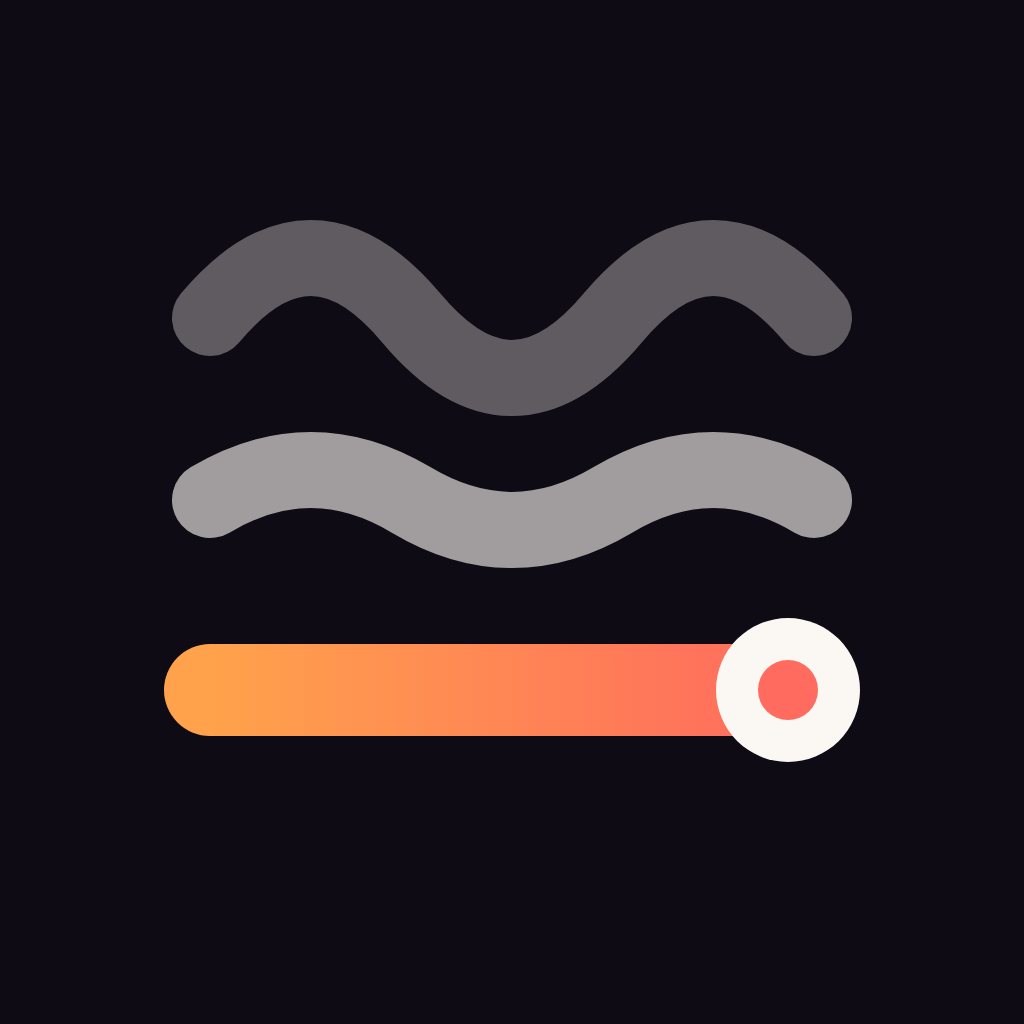
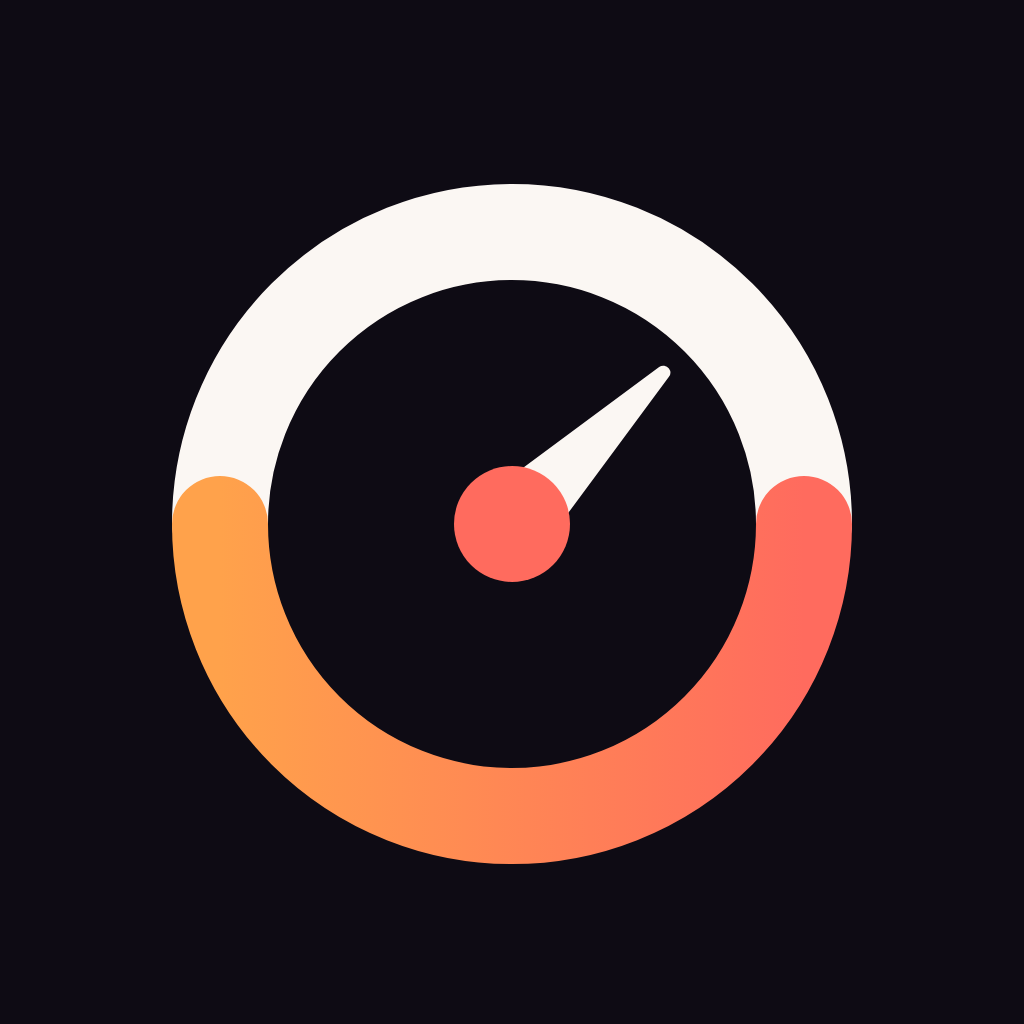
Brand: the dial becomes the Tidemark mark
A scale's dial seen from above: the upper half paper, the lower half filled
amber to coral, the needle resting steady on a coral hub. Redrawn as exact
geometry in make_logo.py and regenerated everywhere: app icons (light, dark,
tinted, Android adaptive and themed), splash, favicon, lockups, the in-app
TidemarkIcon, the website icon and the brand sheet.

Claude-Session: https://claude.ai/code/session_01NJzQ8Sbwud31aT5mXSmaWd

Changed region(s): [[0.1562, 0.1562, 0.8438, 0.8438]]

diff --git a/mobile/src/components/Logo.tsx b/mobile/src/components/Logo.tsx
@@ -4,12 +4,11 @@ import { C } from '../theme';
 // The tile is plum in both themes, so its marks stay paper-coloured (not the theme background, which is dark in dark mode)
 const PAPER = '#FBF7F3';
 
-// Same geometry as brand/tidemark-app-icon.svg (1024 grid, from brand/make_logo.py): the waves are daily weigh-ins,
-// they calm, and what's left is the trend, one flat line, with today marked where it lands.
-const WAVES: [string, number][] = [
-  ['M210 318 Q 310.7 198 411.3 318 T 612.7 318 T 814.0 318', 0.34],
-  ['M210 500 Q 310.7 440 411.3 500 T 612.7 500 T 814.0 500', 0.62],
-];
+// Same geometry as brand/tidemark-app-icon.svg (1024 grid, from brand/make_logo.py): a scale's dial seen from above,
+// the upper half paper, the lower half filled amber to coral for the progress made, and the needle resting steady.
+const UPPER = 'M220.0 524.0 A292 292 0 0 1 804.0 524.0';
+const LOWER = 'M804.0 524.0 A292 292 0 0 1 220.0 524.0';
+const NEEDLE = 'M489.4 501.4 L663.3 372.7 L534.6 546.6 Z';
 
 /** The Tidemark app icon as a rounded tile, for the lock screen and welcome screen. */
 export function TidemarkIcon({ size = 64 }: { size?: number }) {
@@ -17,15 +16,15 @@ export function TidemarkIcon({ size = 64 }: { size?: number }) {
     <Svg width={size} height={size} viewBox="0 0 1024 1024" accessibilityLabel="Tidemark">
       <Defs>
         <LinearGradient id="bg" x1="0" y1="0" x2="1" y2="1"><Stop offset="0" stopColor="#352657" /><Stop offset="0.55" stopColor={C.plum1} /><Stop offset="1" stopColor="#1E1533" /></LinearGradient>
-        <RadialGradient id="warm" cx="0.79" cy="0.69" r="0.5"><Stop offset="0" stopColor={C.coral} stopOpacity={0.28} /><Stop offset="1" stopColor={C.coral} stopOpacity={0} /></RadialGradient>
-        <LinearGradient id="trend" gradientUnits="userSpaceOnUse" x1="210" y1="690" x2="788" y2="690"><Stop offset="0" stopColor={C.amber} /><Stop offset="1" stopColor={C.coral} /></LinearGradient>
+        <RadialGradient id="warm" cx="0.5" cy="0.8" r="0.55"><Stop offset="0" stopColor={C.coral} stopOpacity={0.24} /><Stop offset="1" stopColor={C.coral} stopOpacity={0} /></RadialGradient>
+        <LinearGradient id="fill" gradientUnits="userSpaceOnUse" x1="220" y1="0" x2="804" y2="0"><Stop offset="0" stopColor={C.amber} /><Stop offset="1" stopColor={C.coral} /></LinearGradient>
       </Defs>
       <Rect width={1024} height={1024} rx={228} fill="url(#bg)" />
       <Rect width={1024} height={1024} rx={228} fill="url(#warm)" />
-      {WAVES.map(([d, o]) => <Path key={d} d={d} fill="none" stroke={PAPER} strokeOpacity={o} strokeWidth={76} strokeLinecap="round" />)}
-      <Path d="M210 690 H760" stroke="url(#trend)" strokeWidth={92} strokeLinecap="round" />
-      <Circle cx={788} cy={690} r={72} fill={PAPER} />
-      <Circle cx={788} cy={690} r={30} fill={C.coral} />
+      <Path d={UPPER} fill="none" stroke={PAPER} strokeWidth={96} strokeLinecap="round" />
+      <Path d={LOWER} fill="none" stroke="url(#fill)" strokeWidth={96} strokeLinecap="round" />
+      <Path d={NEEDLE} fill={PAPER} stroke={PAPER} strokeWidth={14} strokeLinejoin="round" />
+      <Circle cx={512} cy={524} r={58} fill={C.coral} />
     </Svg>
   );
 }

diff --git a/brand/make_logo.py b/brand/make_logo.py
@@ -1,8 +1,9 @@
 # Generates the Tidemark brand marks as SVG.
-# The mark (direction A, "calming waves"): daily weigh-ins are the waves; they calm, and what's left is the trend, one
-# flat line, with today marked where it lands. Read the trend, not the waves.
+# The mark (direction D, "the dial"): a scale's dial seen from above. The upper half of the ring is paper; the lower
+# half fills amber to coral, the progress you've made; the needle rests steady on a coral hub. It reads as health at a
+# glance, and the needle sits still on purpose: the trend, not today's jump.
 # Usage: python3 make_logo.py <out-dir>   (needs `pip install fonttools` and mobile/node_modules for the font)
-import os, sys
+import math, os, sys
 from fontTools.ttLib import TTFont
 from fontTools.pens.svgPathPen import SVGPathPen
 
@@ -12,40 +13,44 @@ FONT = os.path.join(HERE, '../mobile/node_modules/@expo-google-fonts/space-grote
 PLUM1, CORAL, AMBER, PAPER = '#2A1E45', '#FF6B5E', '#FFA24B', '#FBF7F3'
 
 # ---- geometry (1024 grid) ----
-X0, X1 = 210, 814                  # waves span
-WAVES = ((318, 120, 0.34), (500, 60, 0.62))   # (baseline y, amplitude, opacity): the second is calmer and stronger
-LINE_Y, LINE_END, TODAY = 690, 760, (788, 690)
-STROKE, LINE_STROKE, TODAY_R = 76, 92, 72   # weights tuned so the mark still reads at 29 px
+CX, CY, R, RING = 512, 524, 292, 96     # dial centre, ring radius (to the stroke's middle) and weight
+NEEDLE_ANGLE, NEEDLE_LEN, NEEDLE_BASE = 45, 214, 64   # degrees from 12 o'clock (clockwise), length, base width
+HUB = 58                                 # the coral hub the needle turns on; weights tuned so it reads at 29 px
 
-def wave(y, amp, n=3):
-    w = (X1 - X0) / n
-    d = f'M{X0} {y} Q {X0 + w / 2:.1f} {y - amp} {X0 + w:.1f} {y}'
-    for i in range(2, n + 1): d += f' T {X0 + i * w:.1f} {y}'
-    return d
+def pt(angle, r):
+    """A point on a circle around the dial centre; angle in degrees clockwise from 12 o'clock."""
+    a = math.radians(angle)
+    return CX + r * math.sin(a), CY - r * math.cos(a)
+
+def arc(a0, a1):
+    (x0, y0), (x1, y1) = pt(a0, R), pt(a1, R)
+    return f'M{x0:.1f} {y0:.1f} A{R} {R} 0 {1 if abs(a1 - a0) > 180 else 0} 1 {x1:.1f} {y1:.1f}'
 
 def defs(u):
     return (f'<defs><linearGradient id="bg{u}" x1="0" y1="0" x2="1" y2="1"><stop offset="0" stop-color="#352657"/>'
             f'<stop offset="0.55" stop-color="{PLUM1}"/><stop offset="1" stop-color="#1E1533"/></linearGradient>'
-            f'<radialGradient id="warm{u}" cx="0.79" cy="0.69" r="0.5"><stop offset="0" stop-color="{CORAL}" stop-opacity="0.28"/>'
+            f'<radialGradient id="warm{u}" cx="0.5" cy="0.8" r="0.55"><stop offset="0" stop-color="{CORAL}" stop-opacity="0.24"/>'
             f'<stop offset="1" stop-color="{CORAL}" stop-opacity="0"/></radialGradient>'
             f'<radialGradient id="sheen{u}" cx="0.3" cy="0" r="0.8"><stop offset="0" stop-color="#FFFFFF" stop-opacity="0.08"/>'
             f'<stop offset="1" stop-color="#FFFFFF" stop-opacity="0"/></radialGradient>'
-            f'<linearGradient id="tr{u}" gradientUnits="userSpaceOnUse" x1="{X0}" y1="{LINE_Y}" x2="{TODAY[0]}" y2="{LINE_Y}">'
+            f'<linearGradient id="tr{u}" gradientUnits="userSpaceOnUse" x1="{CX - R}" y1="0" x2="{CX + R}" y2="0">'
             f'<stop offset="0" stop-color="{AMBER}"/><stop offset="1" stop-color="{CORAL}"/></linearGradient></defs>')
 
 def mark(u, mono=None):
     ink = mono or PAPER
-    waves = ''.join(f'<path d="{wave(y, amp)}" fill="none" stroke="{ink}" stroke-opacity="{min(1, op + 0.12) if mono else op}" '
-                    f'stroke-width="{STROKE}" stroke-linecap="round"/>' for y, amp, op in WAVES)
-    # in one colour the line stops short of the ring (a gap instead of the paper halo), or it would fill the ring's hole
-    end = TODAY[0] - TODAY_R - LINE_STROKE // 2 - 26 if mono else LINE_END
-    line = (f'<path d="M{X0} {LINE_Y} H{end}" stroke="{mono or f"url(#tr{u})"}" stroke-width="{LINE_STROKE}" '
-            f'stroke-linecap="round"/>')
-    cx, cy = TODAY
-    # One colour: today becomes a ring, so it still stands apart from the line it sits on
-    today = (f'<circle cx="{cx}" cy="{cy}" r="{TODAY_R - 21}" fill="none" stroke="{mono}" stroke-width="42"/>' if mono else
-             f'<circle cx="{cx}" cy="{cy}" r="{TODAY_R}" fill="{PAPER}"/><circle cx="{cx}" cy="{cy}" r="{round(TODAY_R * 0.41)}" fill="{CORAL}"/>')
-    return waves + line + today
+    # paper upper half (in one colour it steps back, so the filled half still reads as progress)
+    upper = (f'<path d="{arc(-90, 90)}" fill="none" stroke="{ink}" stroke-opacity="{0.42 if mono else 1}" '
+             f'stroke-width="{RING}" stroke-linecap="round"/>')
+    lower = (f'<path d="{arc(90, 270)}" fill="none" stroke="{mono or f"url(#tr{u})"}" stroke-width="{RING}" '
+             f'stroke-linecap="round"/>')
+    tip = pt(NEEDLE_ANGLE, NEEDLE_LEN)
+    l, r = pt(NEEDLE_ANGLE - 90, NEEDLE_BASE / 2), pt(NEEDLE_ANGLE + 90, NEEDLE_BASE / 2)
+    needle = (f'<path d="M{l[0]:.1f} {l[1]:.1f} L{tip[0]:.1f} {tip[1]:.1f} L{r[0]:.1f} {r[1]:.1f} Z" fill="{ink}" '
+              f'stroke="{ink}" stroke-width="14" stroke-linejoin="round"/>')
+    # One colour: the hub becomes a ring, so it still stands apart from the needle it holds
+    hub = (f'<circle cx="{CX}" cy="{CY}" r="{HUB - 17}" fill="none" stroke="{mono}" stroke-width="34"/>' if mono else
+           f'<circle cx="{CX}" cy="{CY}" r="{HUB}" fill="{CORAL}"/>')
+    return upper + lower + needle + hub
 
 def svg(inner, w=1024, h=1024, vb='0 0 1024 1024'):
     return f'<svg xmlns="http://www.w3.org/2000/svg" width="{w}" height="{h}" viewBox="{vb}">{inner}</svg>'

diff --git a/brand/README.md b/brand/README.md
@@ -1,12 +1,13 @@
 # Tidemark brand
 
-A tidemark is the line water leaves behind: the waves come and go, the mark shows where the level really is.
-That's the app, and the logo: your daily weigh-ins are the waves; they calm, and what's left is the trend, one flat
-coral line, with today marked where it lands. Read the trend, not the waves. Strokes are heavy enough to read at 29 px;
-in one colour (iOS tinted, Android themed) today becomes a ring so it stays separate from the line.
+The mark is a scale's dial seen from above. The upper half of the ring is paper; the lower half fills amber to coral,
+the progress you've made; the needle rests steady on a coral hub. It says health at a glance, and the needle sits still
+on purpose: Tidemark reads the trend, not today's jump. Strokes are heavy enough to read at 29 px; in one colour (iOS
+tinted, Android themed) the paper half steps back to show the filled half, and the hub becomes a ring.
 
-Figma (editable master, the three Tidemark directions explored — A · Calming waves was chosen and refined — and the
-earlier Plumb work, archived):
+The dial (direction D3) was picked in October 2026 from AI concept rounds, then redrawn here as exact geometry.
+
+Figma (the earlier directions, including A · Calming waves, the mark before the dial, and the Plumb work, archived):
 https://www.figma.com/design/CZGyRjRwm0vNKi5EQA33Ek
 
 | File | Use |
@@ -16,7 +17,7 @@ https://www.figma.com/design/CZGyRjRwm0vNKi5EQA33Ek
 | `tidemark-mark.svg` / `tidemark-mark-mono.svg` | Mark without background; one-colour version for Android themed icons |
 | `tidemark-wordmark.svg` | Wordmark alone |
 | `tidemark-lockup.svg` / `tidemark-lockup-on-plum.svg` | Icon + wordmark, on light and on plum |
-| `tidemark-brand-sheet.png` | Overview |
+| `tidemark-brand-sheet.png` | Overview: the icon at every size, dark, tinted, and the lockups |
 
 Colours: paper `#FBF7F3`, ink `#241B33`, plum `#352657` → `#2A1E45` → `#1E1533`, coral `#FF6B5E`, amber `#FFA24B`.
 Type: Space Grotesk Bold (display), Hanken Grotesk (body).
